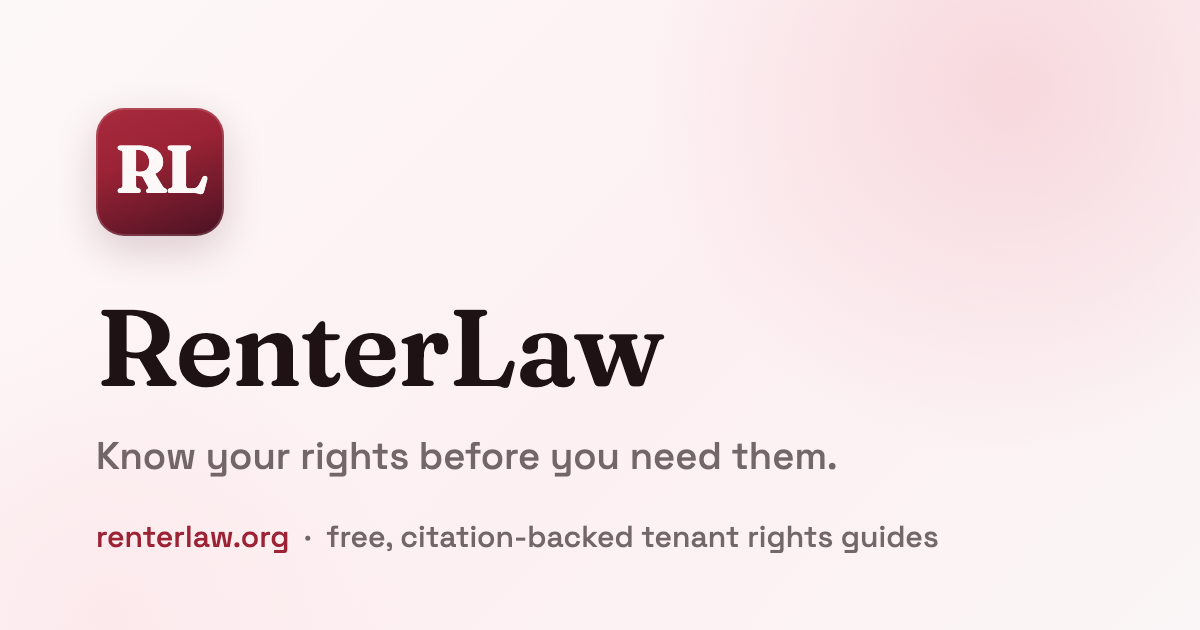
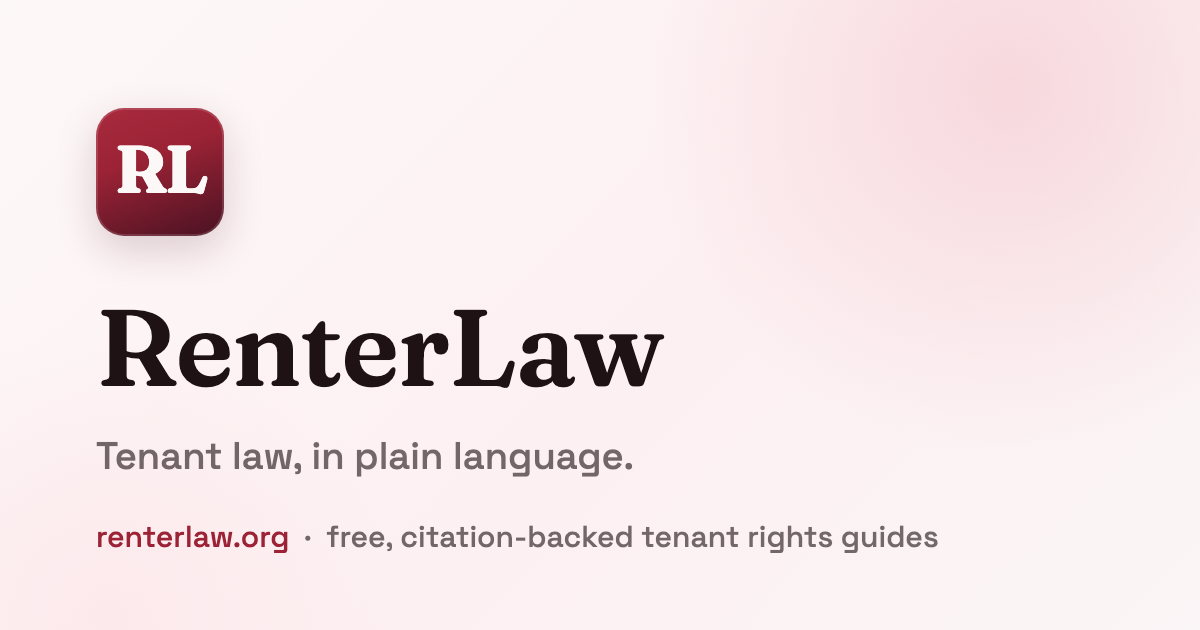
New tagline and hero copy
Homepage h1/title/og: "Tenant law, in plain language."
Lede: "Search your situation. Every answer cites the law it comes from."
og.png regenerated with the new tagline.

Changed region(s): [[0.0617, 0.6937, 0.7092, 0.754]]

diff --git a/web/templates/index.html b/web/templates/index.html
@@ -4,18 +4,18 @@
   <meta charset="utf-8" />
   <link rel="icon" type="image/png" href="/static/favicon.png" />
   <meta name="viewport" content="width=device-width, initial-scale=1" />
-  <title>RenterLaw — Know your rights before you need them</title>
+  <title>RenterLaw — Tenant law, in plain language</title>
   <meta name="description" content="Tenant law is confusing. Your rights don't have to be. Free, citation-backed tenant rights guides — search by situation or browse by city." />
   <link rel="canonical" href="{{absURL "/"}}"/>
   <meta property="og:type" content="website" />
   <meta property="og:site_name" content="RenterLaw" />
   <meta property="og:url" content="{{absURL "/"}}" />
-  <meta property="og:title" content="RenterLaw — Know your rights before you need them" />
+  <meta property="og:title" content="RenterLaw — Tenant law, in plain language" />
   <meta property="og:description" content="Tenant law is confusing. Your rights don't have to be. Free, citation-backed tenant rights guides — search by situation or browse by city." />
   <meta property="og:image" content="{{absURL "/static/og.png"}}" />
   <meta name="twitter:card" content="summary_large_image" />
   <meta name="twitter:image" content="{{absURL "/static/og.png"}}" />
-  <meta name="twitter:title" content="RenterLaw — Know your rights before you need them" />
+  <meta name="twitter:title" content="RenterLaw — Tenant law, in plain language" />
   <meta name="twitter:description" content="Tenant law is confusing. Your rights don't have to be. Free, citation-backed tenant rights guides — search by situation or browse by city." />
   {{if .StructuredData}}<script type="application/ld+json">{{.StructuredData}}</script>{{end}}
   <link rel="preconnect" href="https://fonts.googleapis.com" />
@@ -39,8 +39,8 @@
     <div class="pulse" aria-hidden="true"></div>
 
     <section class="hero">
-      <h1>Know your rights before you need them.</h1>
-      <p class="lede">Describe what's happening — get a step-by-step tenant rights playbook backed by primary sources.</p>
+      <h1>Tenant law, in plain language.</h1>
+      <p class="lede">Search your situation. Every answer cites the law it comes from.</p>
       <form class="hero-search" action="/search" method="get" role="search">
         <input type="search" name="q" placeholder="e.g. landlord entered without notice…" aria-label="Search by situation" autofocus />
         <button type="submit">Search</button>
